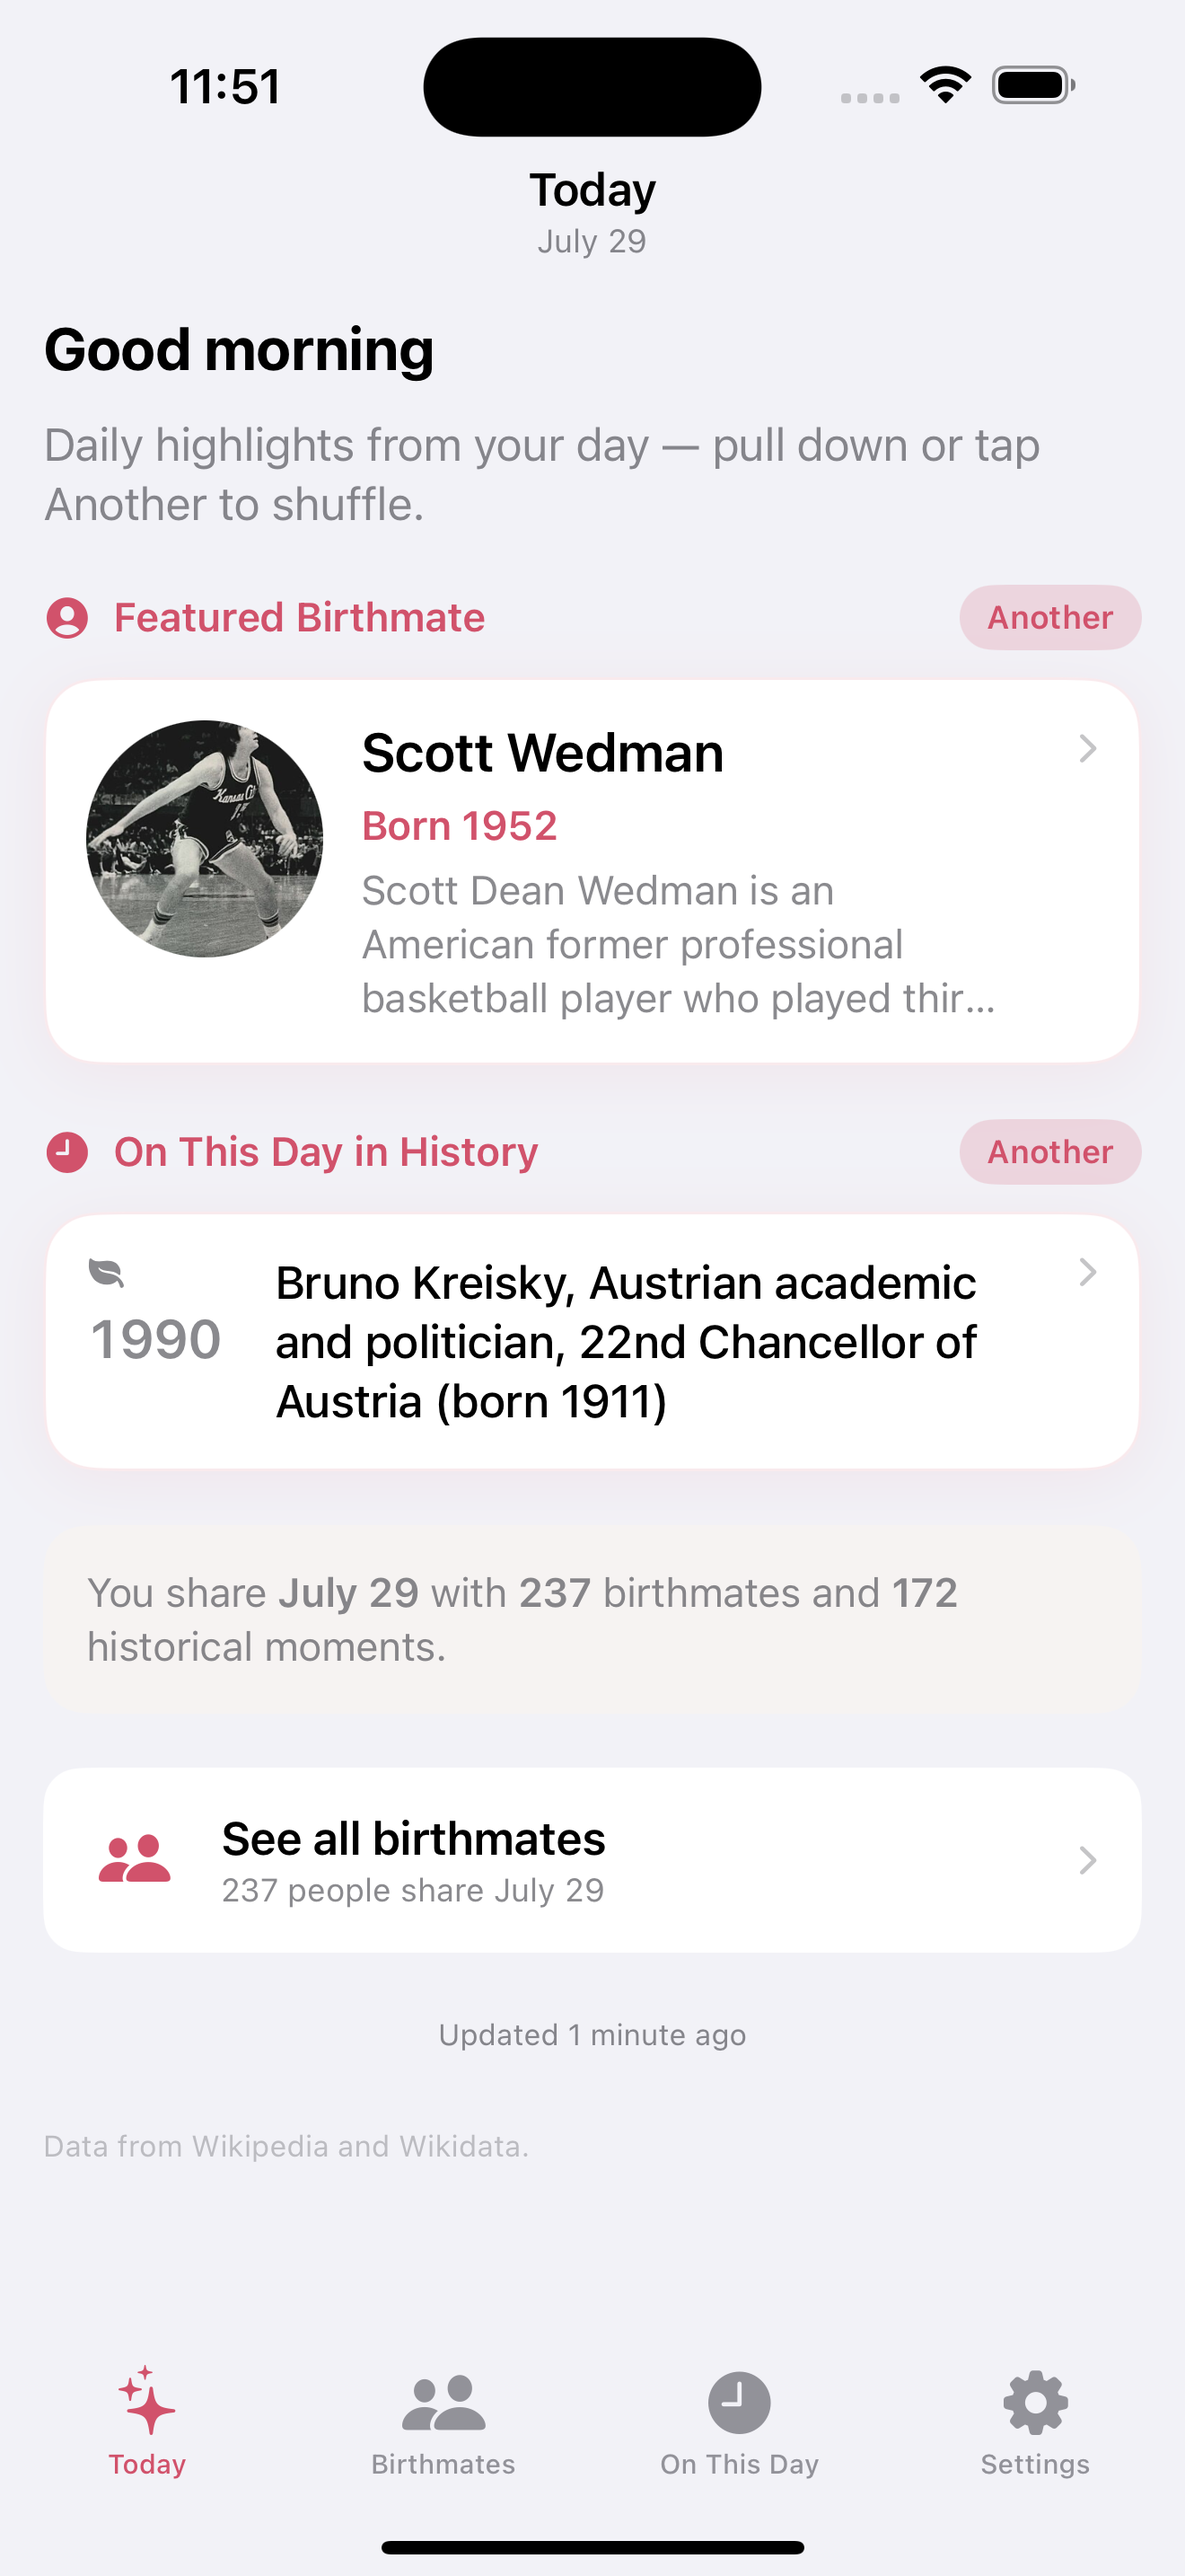
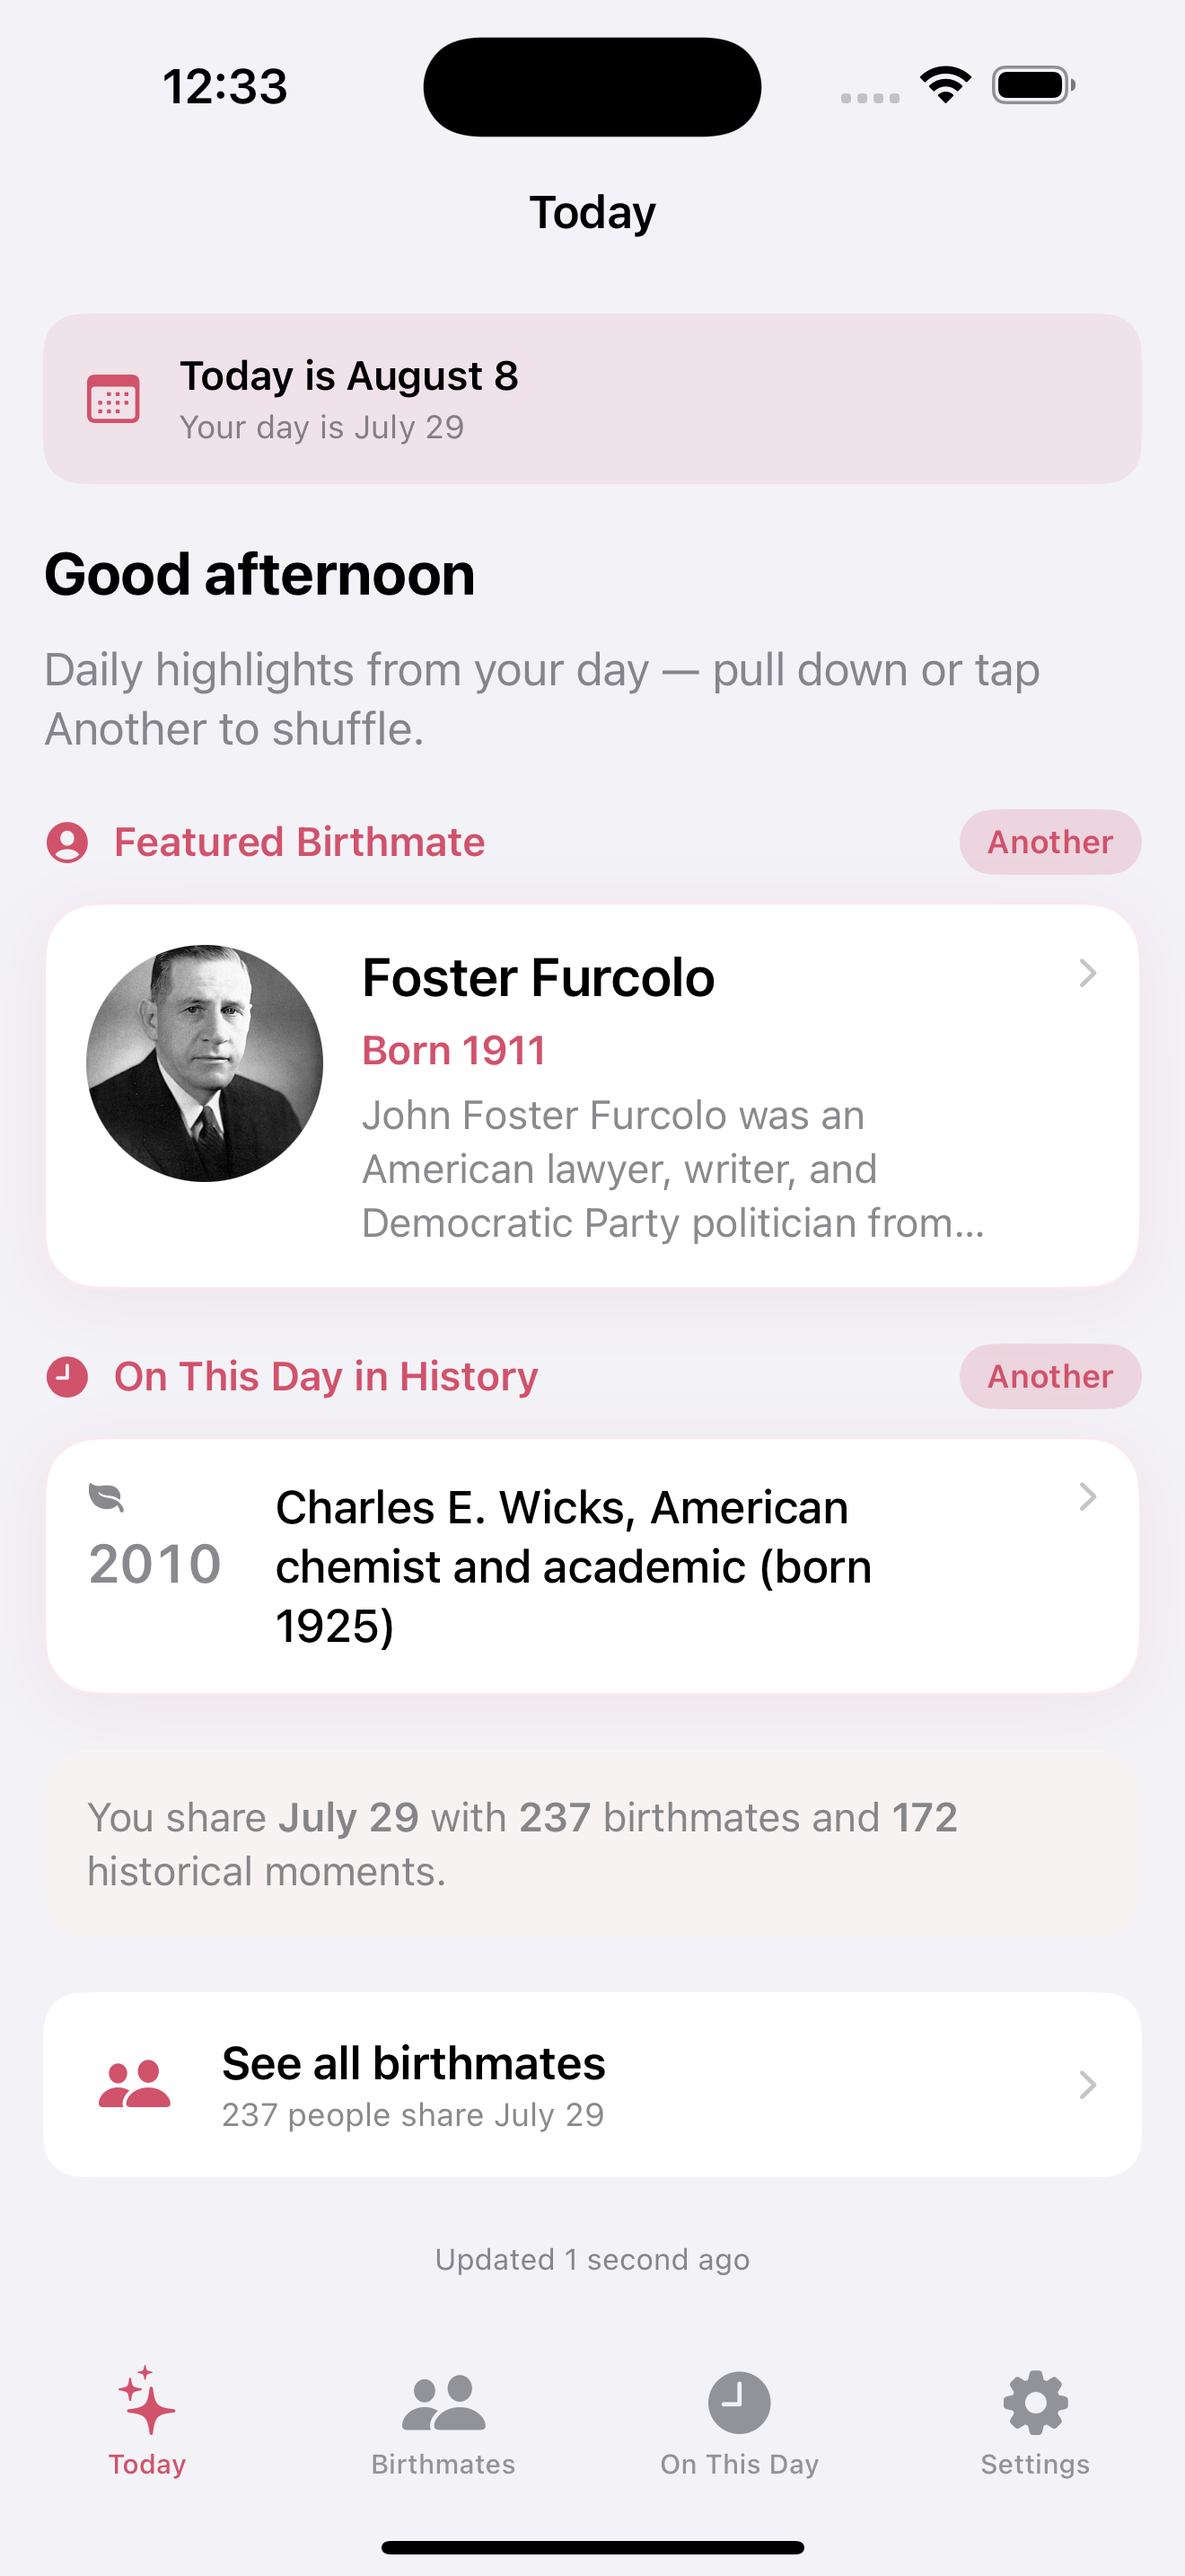
Clarify calendar today vs birthdate on Today with BirthdayBanner.
Match Birthmates and On This Day date labeling, simplify the nav title, and refresh the Today App Store screenshot.

diff --git a/Birthmate/Views/Today/TodayView.swift b/Birthmate/Views/Today/TodayView.swift
@@ -38,13 +38,8 @@ struct TodayView: View {
             .navigationBarTitleDisplayMode(.inline)
             .toolbar {
                 ToolbarItem(placement: .principal) {
-                    VStack(spacing: 2) {
-                        Text("Today")
-                            .font(.headline)
-                        Text(formattedDate)
-                            .font(.caption)
-                            .foregroundStyle(.secondary)
-                    }
+                    Text("Today")
+                        .font(.headline)
                 }
                 if viewModel.isRefreshing {
                     ToolbarItem(placement: .topBarTrailing) {
@@ -98,6 +93,10 @@ struct TodayView: View {
     private var scrollContent: some View {
         ScrollView {
             VStack(alignment: .leading, spacing: 20) {
+                if let month = birthdateStore.month, let day = birthdateStore.day {
+                    BirthdayBanner(month: month, day: day)
+                }
+
                 headerSection
 
                 if let person = viewModel.featuredPerson {
